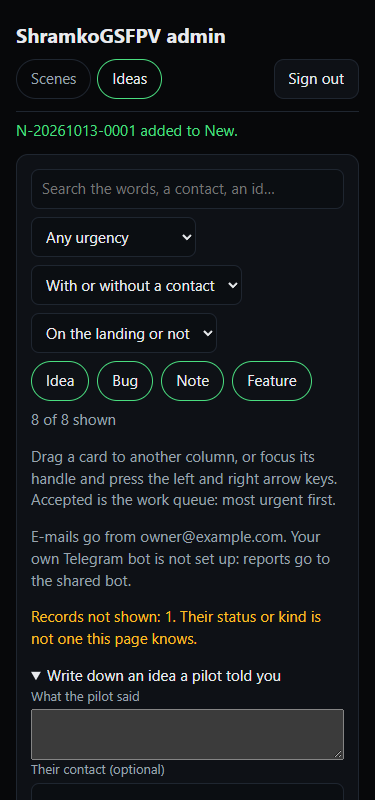
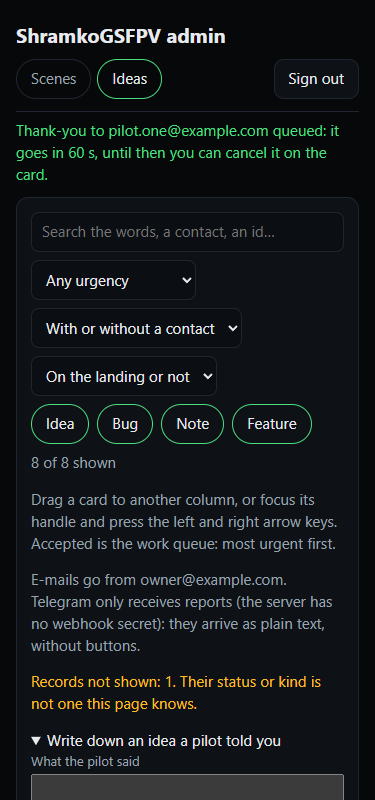
evidence: admin Ideas harness 53/53 (15 controls) after the review fixes; status

diff --git a/docs/wip/v07-c.md b/docs/wip/v07-c.md
@@ -119,6 +119,6 @@ Each finding checked first; fixed ones get a test that fails without the fix.
   B's server finds the shipped seed by default (B's apps/api/roadmap-seed.json default fails it)
 - [x] R5 (next commit; format read from lane B's admin.py/ideas_admin.py, not run: needs the merged server) accept-v06-admin: the move from the admin needs B's `ideas-update` audit line again
 - [x] R6 (code in the R1/R2 commit; scan test for invisible characters in apps/site/src + apps/fly/src fails on the old text.ts) text.ts escapes written as escapes; ReportRow removed; the card's arrow keys use board.neighbour()
-- [~] R7 (harness edited, committed before the run) browser harness: boxes empty after a send, a refused send keeps the text, Gmail-off message,
+- [x] R7 (53/53 with 15 controls, evidence/2026-10-13/v07-ideas-admin.json; it caught a real bug: [hidden] did not hide a .btn, fixed in admin.css; with the old clear-after-redraw order 5 checks FAIL, as the reviewer saw) browser harness: boxes empty after a send, a refused send keeps the text, Gmail-off message,
   checkbox kept across another card's redraw (GPU lock)
 - [ ] R8 gates and site verify
